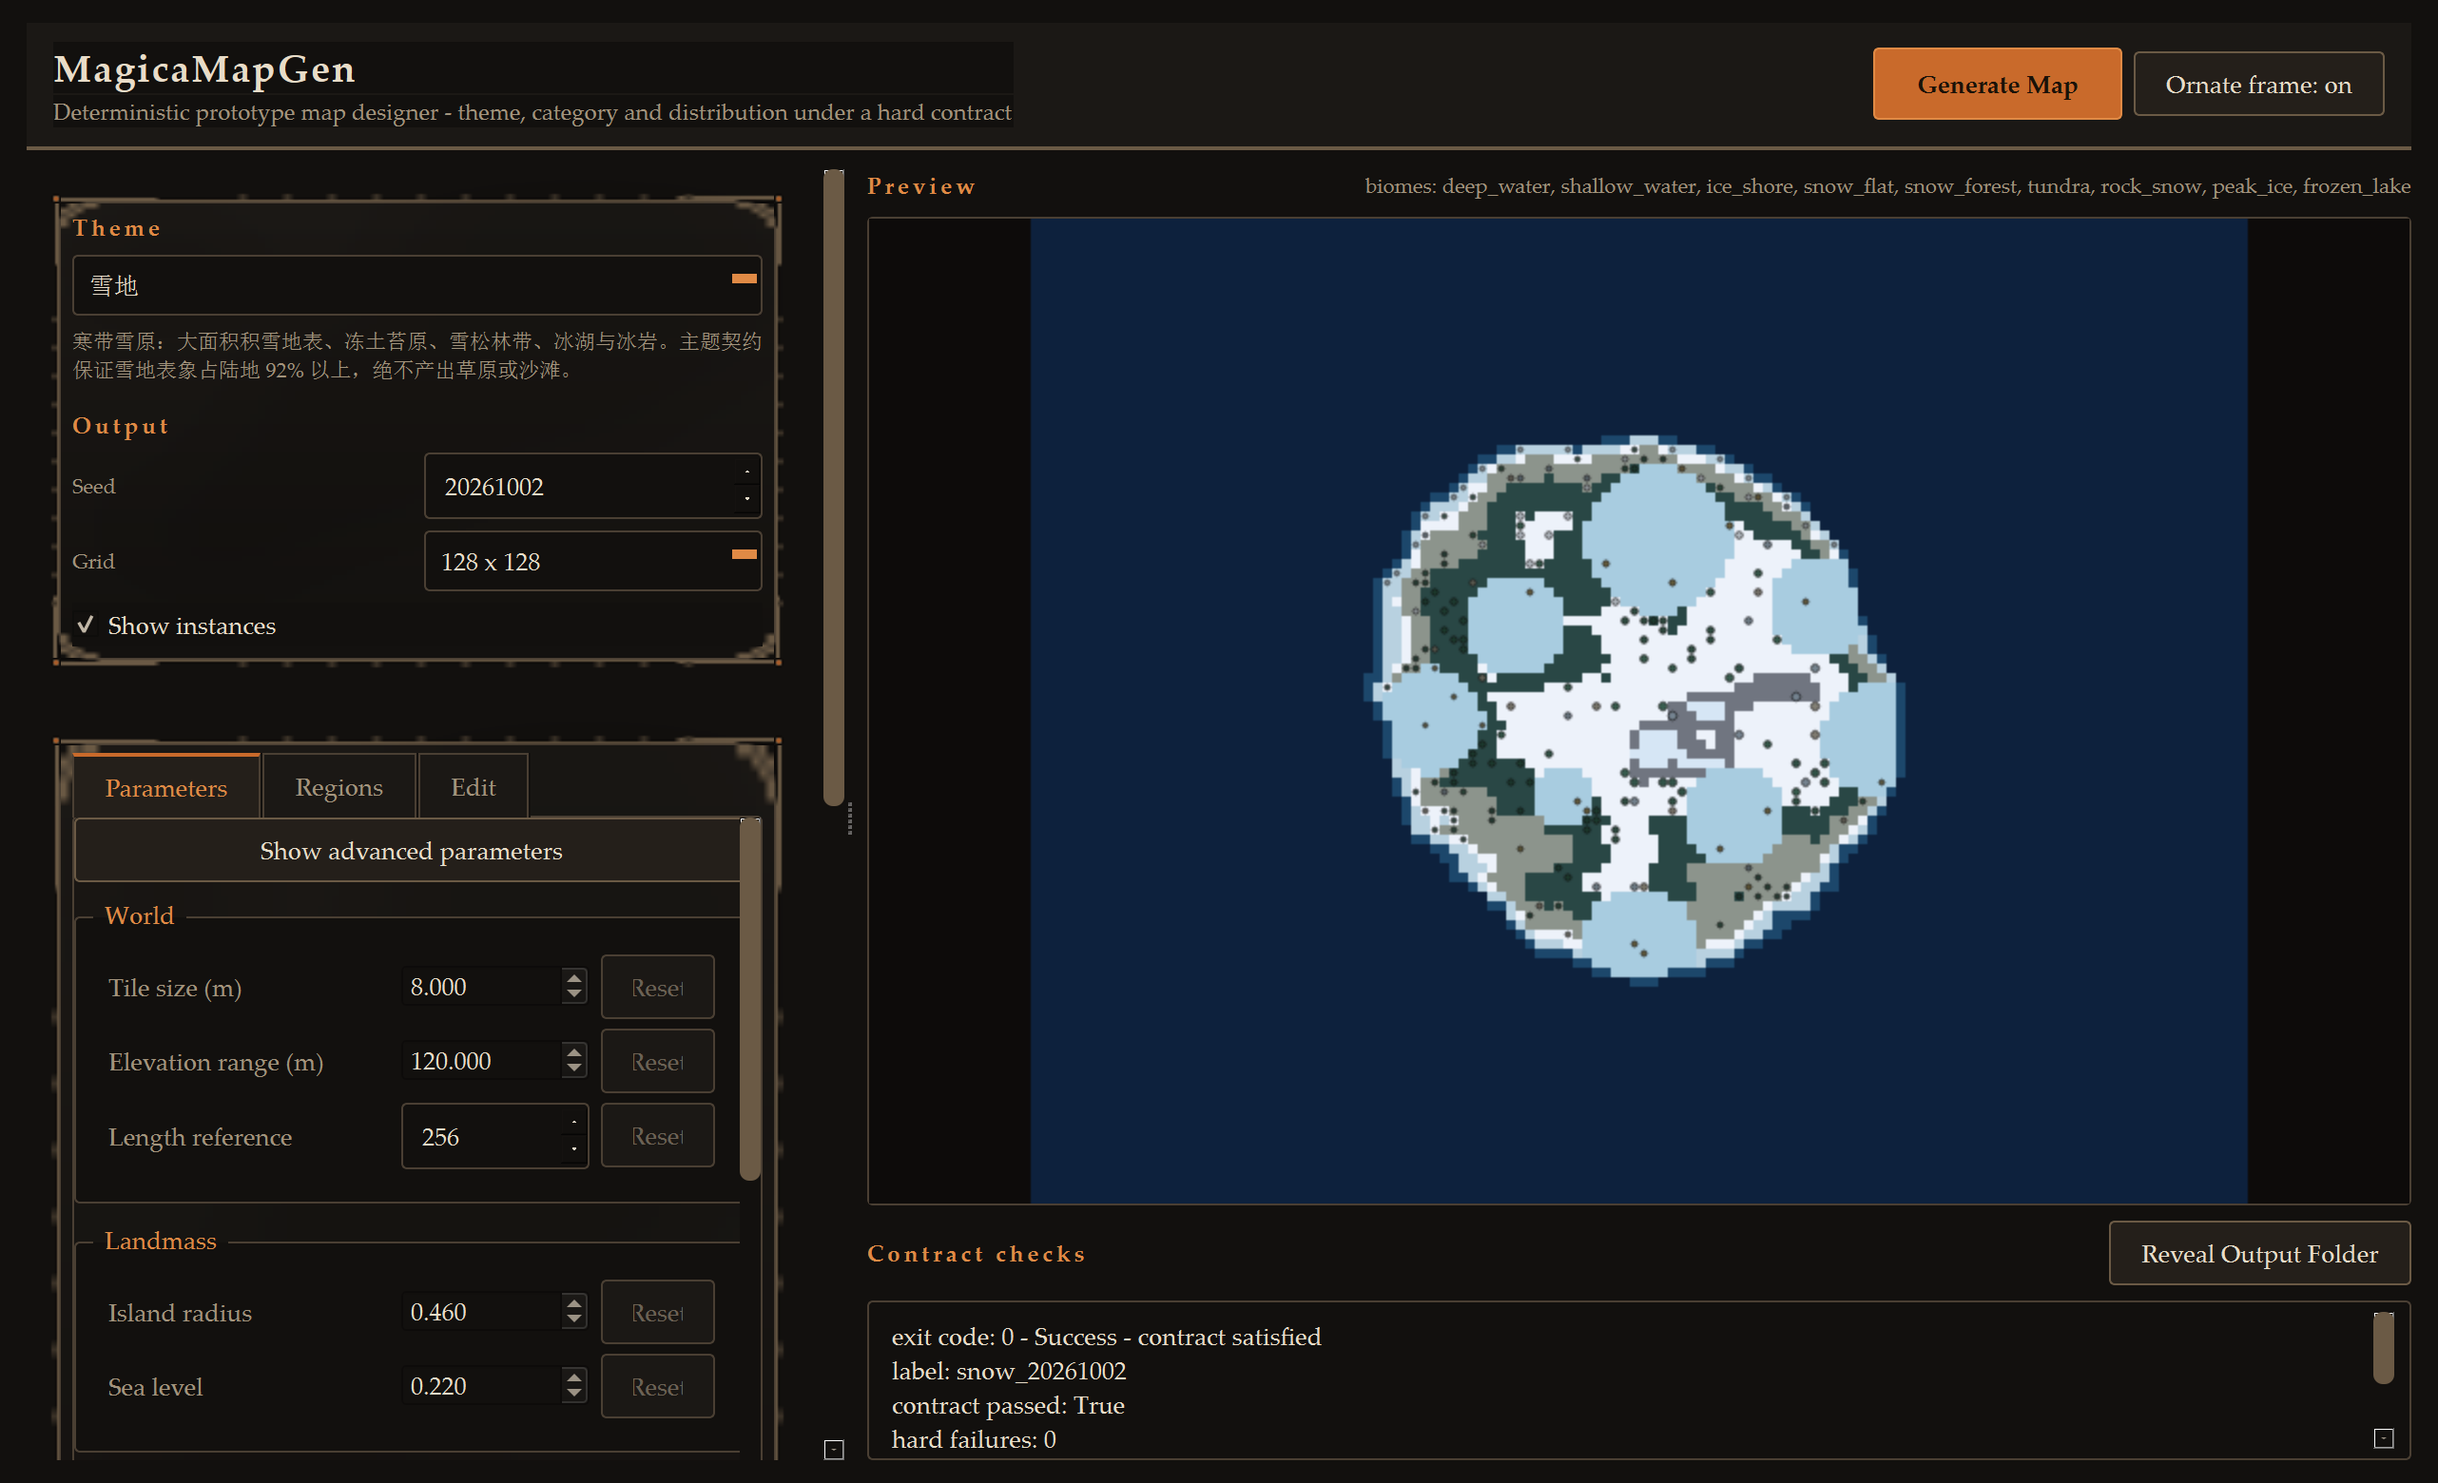
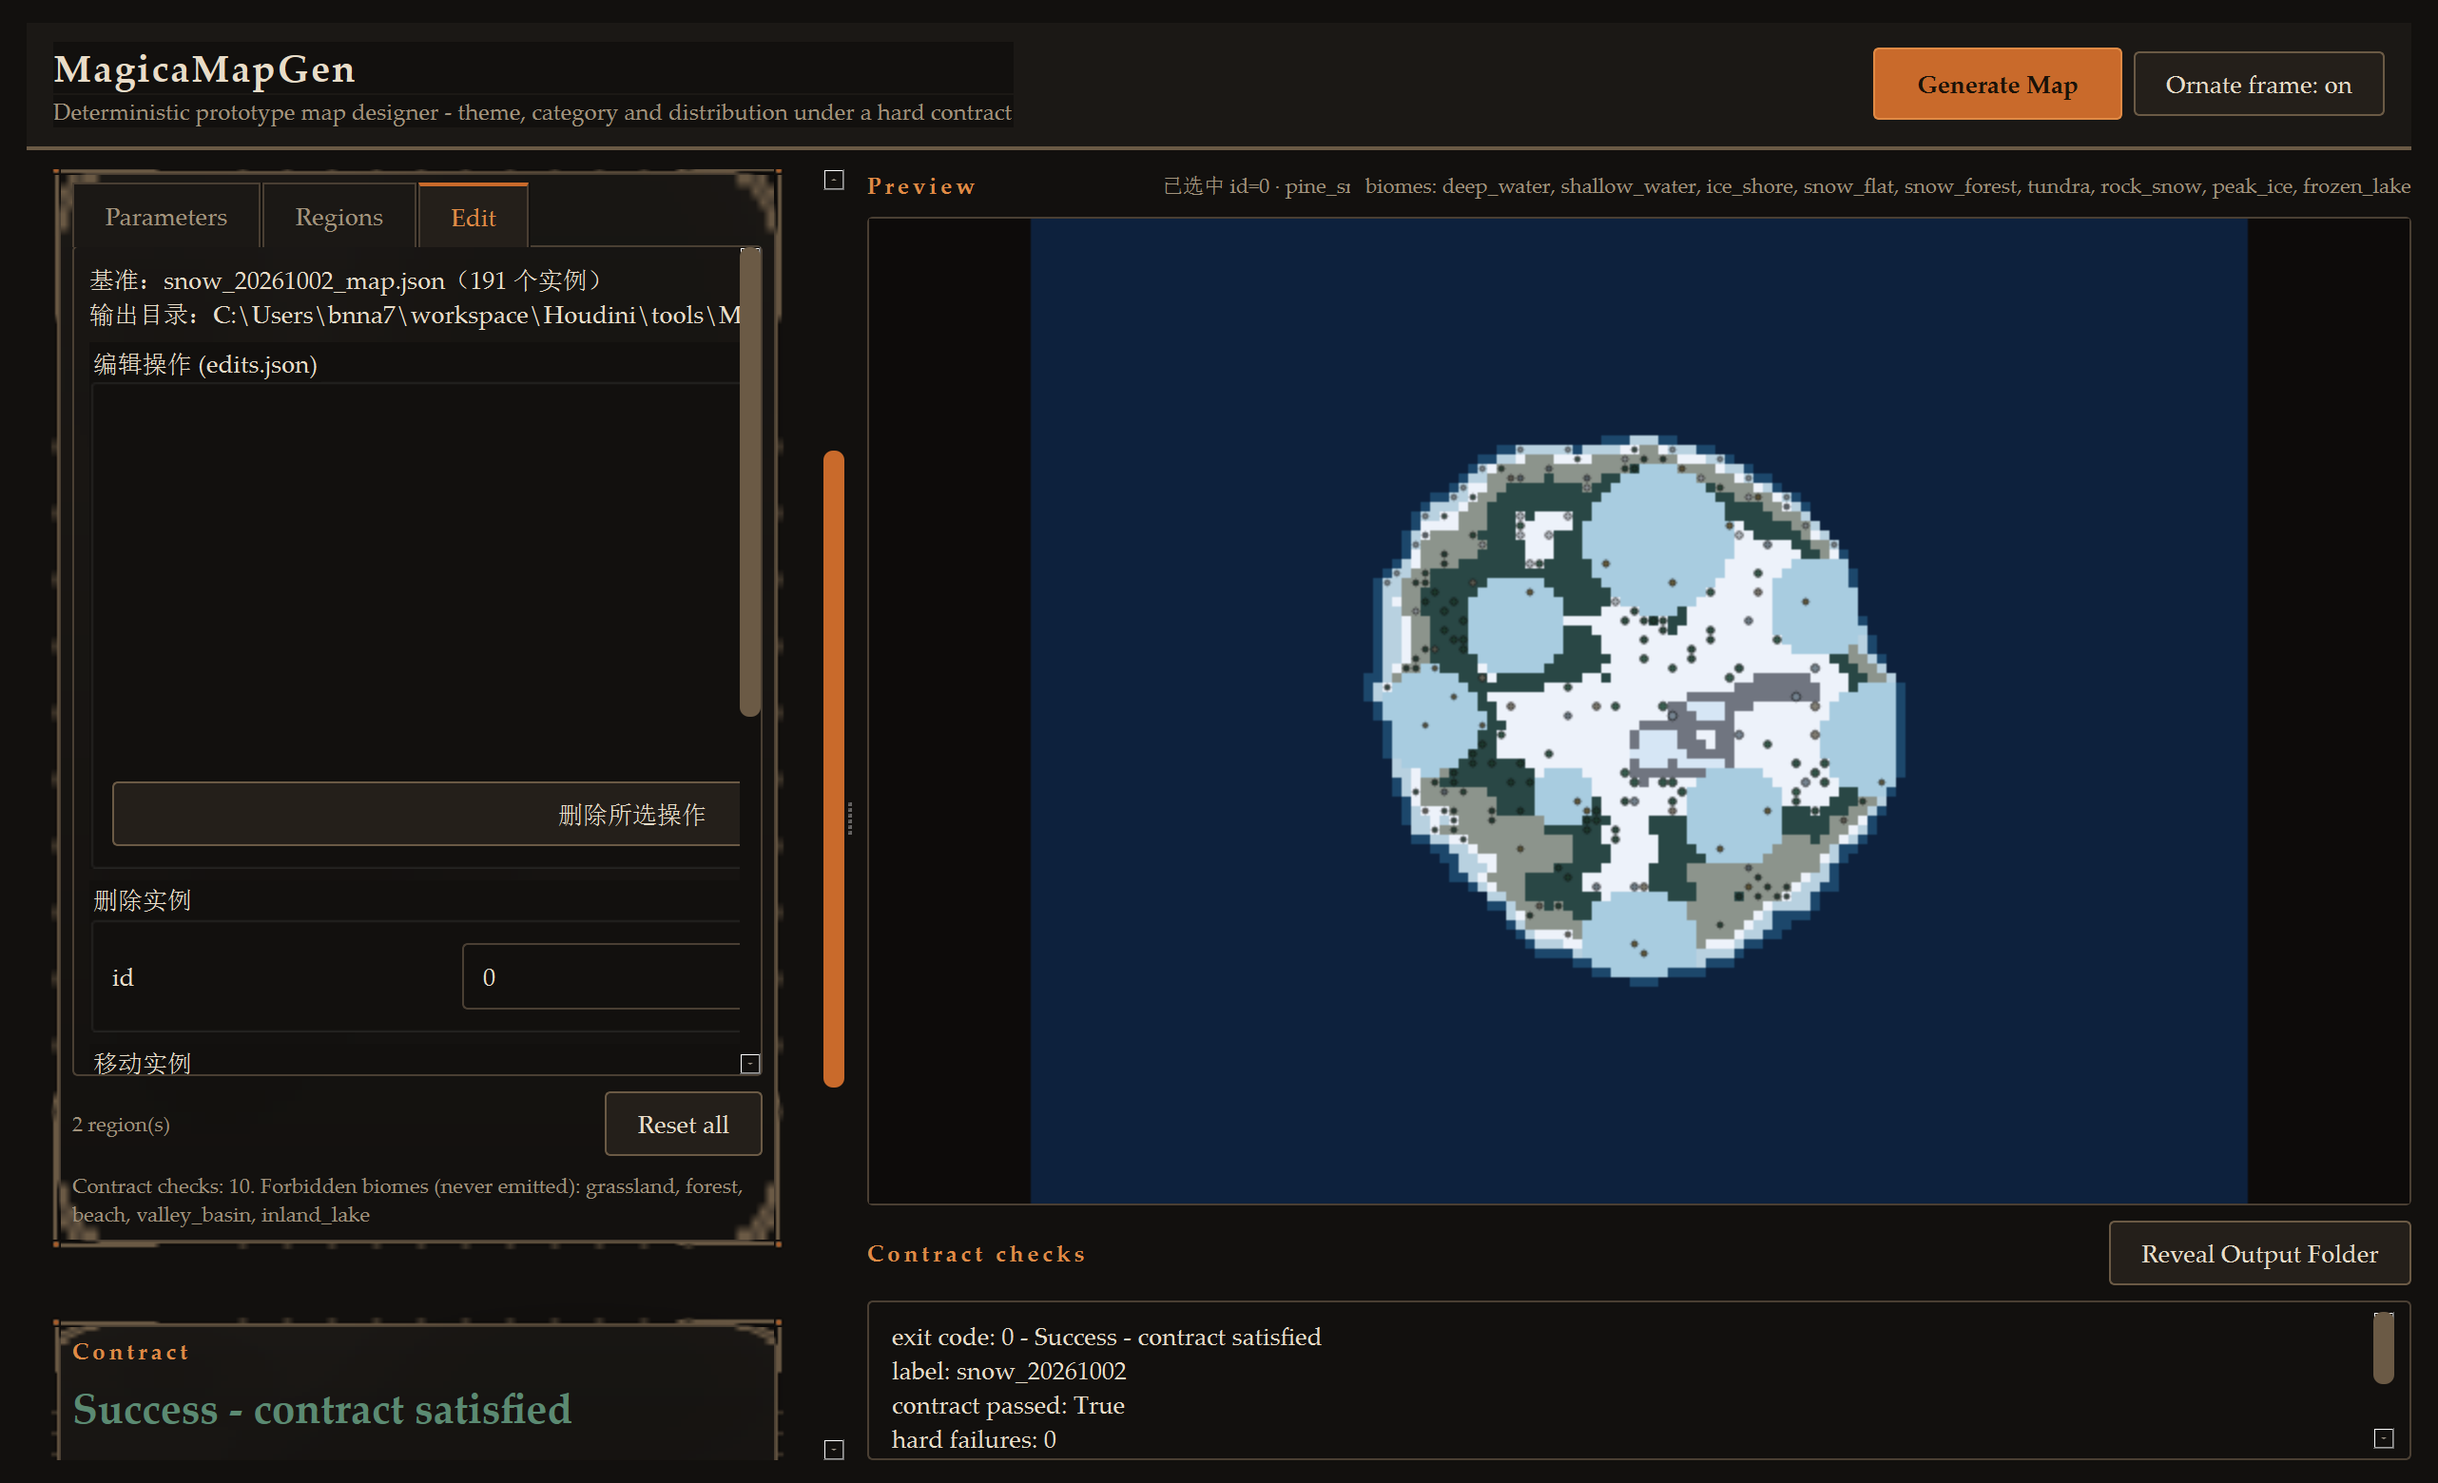
GUI: preview click-to-select auto-fills the Edit panel instance id
Hit-test the preview against instance markers and fill del/move id +
target cell, so editing no longer requires typing an integer by hand.
Render and picking share one _projection, so a click maps exactly to the
drawn pixel. Verified end-to-end through a real QMouseEvent via
smoke_gui.py (RESULT: PASS). Baseline doc records the re-runnable
acceptance command.

diff --git a/tools/MagicaMapGen/app/main_window.py b/tools/MagicaMapGen/app/main_window.py
@@ -12,7 +12,7 @@ import sys
 from pathlib import Path
 from typing import Optional
 
-from PyQt6.QtCore import Qt, QTimer
+from PyQt6.QtCore import Qt, QTimer, QEvent
 from PyQt6.QtGui import QImage, QPixmap
 from PyQt6.QtWidgets import (
     QApplication, QCheckBox, QComboBox, QFrame, QGridLayout, QGroupBox, QHBoxLayout,
@@ -24,7 +24,7 @@ from . import theme
 from .bridge import EXIT_MEANING, EXIT_OK, MapgenBridge, MapSummary
 from .edits_panel import EditsPanel
 from .param_form import ParamForm
-from .preview import render_map
+from .preview import pick_instance, render_map
 from .region_editor import RegionEditor
 from .skin import SkinnedFrame, SkinManager
 
@@ -218,7 +218,8 @@ class MainWindow(QMainWindow):
         self.region_host = QWidget()
         tabs.addTab(self._wrap_scroll(self.region_host), "Regions")
         self.edits_panel = EditsPanel(self.bridge)
-        tabs.addTab(self._wrap_scroll(self.edits_panel), "Edit")
+        self._edit_tab_index = tabs.addTab(self._wrap_scroll(self.edits_panel), "Edit")
+        self.tabs = tabs
         outer.addWidget(tabs)
 
         row = QHBoxLayout()
@@ -302,6 +303,8 @@ class MainWindow(QMainWindow):
         head = QHBoxLayout()
         head.addWidget(_label("Preview", "SectionLabel"))
         head.addStretch(1)
+        self.lbl_pick = _label("点击预览可点选实例", "Hint")
+        head.addWidget(self.lbl_pick)
         self.lbl_legend = _label("", "Hint")
         head.addWidget(self.lbl_legend)
         lay.addLayout(head)
@@ -312,6 +315,9 @@ class MainWindow(QMainWindow):
         self.lbl_preview.setSizePolicy(QSizePolicy.Policy.Expanding, QSizePolicy.Policy.Expanding)
         self.lbl_preview.setStyleSheet(
             f"background:#0d0b0a; border:1px solid {theme.BORDER}; border-radius:3px;")
+        self.lbl_preview.setCursor(Qt.CursorShape.PointingHandCursor)
+        self.lbl_preview.setToolTip("点击地图上的实例标记，自动把它的 id 与格坐标回填到 Edit 面板")
+        self.lbl_preview.installEventFilter(self)
         lay.addWidget(self.lbl_preview, 1)
 
         row = QHBoxLayout()
@@ -464,6 +470,7 @@ class MainWindow(QMainWindow):
 
         keys = [e.get("key") for e in s.legend if e.get("key")]
         self.lbl_legend.setText("biomes: " + ", ".join(keys))
+        self.lbl_pick.setText("点击预览可点选实例")
         self._refresh_preview()
 
     def _refresh_preview(self) -> None:
@@ -476,6 +483,43 @@ class MainWindow(QMainWindow):
             return
         self.lbl_preview.setPixmap(QPixmap.fromImage(img))
         self.lbl_preview.setText("")
+
+    # ---- preview click-to-select (P0-2) ----------------------------------
+
+    def eventFilter(self, obj, event):
+        if (obj is self.lbl_preview
+                and event.type() == QEvent.Type.MouseButtonPress
+                and event.button() == Qt.MouseButton.LeftButton):
+            self._on_preview_click(event.position().toPoint())
+            return True
+        return super().eventFilter(obj, event)
+
+    def _on_preview_click(self, pt) -> None:
+        """Hit-test the click against instance markers and fill the Edit panel."""
+        if self.summary is None:
+            self.lbl_pick.setText("请先生成地图")
+            return
+        if not self.chk_instances.isChecked():
+            self.lbl_pick.setText("请先勾选 Show instances 再点选")
+            return
+        pix = self.lbl_preview.pixmap()
+        if pix is None or pix.isNull():
+            return
+        pw, ph = pix.width(), pix.height()
+        # The pixmap is centred in the label (AlignCenter); strip that offset to
+        # turn the widget-space click into image-space coordinates.
+        off_x = (self.lbl_preview.width() - pw) // 2
+        off_y = (self.lbl_preview.height() - ph) // 2
+        inst = pick_instance(self.summary, pw, ph, pt.x() - off_x, pt.y() - off_y)
+        if inst is None:
+            self.lbl_pick.setText("点选：此处无实例")
+            return
+        iid = int(inst.get("id", -1))
+        gx, gy = int(inst.get("x", 0)), int(inst.get("y", 0))
+        self.edits_panel.select_instance(iid, gx, gy)
+        self.tabs.setCurrentIndex(self._edit_tab_index)
+        self.lbl_pick.setText(
+            f"已选中 id={iid} · {inst.get('type', '')} · 格({gx},{gy}) → 回填 Edit 面板")
 
     def _fill_contract_text(self, code: int, summary) -> None:
         lines = [f"exit code: {code} - {EXIT_MEANING.get(code, 'unknown')}"]

diff --git a/tools/MagicaMapGen/app/preview.py b/tools/MagicaMapGen/app/preview.py
@@ -57,21 +57,37 @@ def decode_rle(runs: List[List[int]], total: int) -> List[int]:
     return flat[:total]
 
 
-def render_map(summary, width: int = 720, height: int = 560,
-               show_instances: bool = True, show_grid: bool = False) -> Optional[QImage]:
-    """Render a MapSummary to a QImage. Returns None if the document is unusable."""
-    grid = summary.grid
+def _projection(grid: dict, width: int, height: int) -> Optional[Tuple[int, int, int, int, int, float]]:
+    """Shared map->screen projection for rendering AND hit-testing.
+
+    Returns ``(w, h, tile, ox, oy, px_per_m)`` or None if the grid is unusable.
+    Both ``render_map`` and ``pick_instance`` go through this so a click maps to
+    exactly the pixel an instance was drawn at -- keeping the two in lockstep is
+    the whole reason this helper exists.
+    """
     w = int(grid.get("width", 0) or 0)
     h = int(grid.get("height", 0) or 0)
     if w < 1 or h < 1:
         return None
-
-    img = QImage(width, height, QImage.Format.Format_ARGB32)
-    img.fill(_hex_to_qcolor("#0d0b0a"))
-
     tile = max(1, int(min(width / w, height / h)))
     ox = (width - tile * w) // 2
     oy = (height - tile * h) // 2
+    cell_m = float(grid.get("tile_size_meters", 8.0) or 8.0)
+    px_per_m = tile / cell_m
+    return w, h, tile, ox, oy, px_per_m
+
+
+def render_map(summary, width: int = 720, height: int = 560,
+               show_instances: bool = True, show_grid: bool = False) -> Optional[QImage]:
+    """Render a MapSummary to a QImage. Returns None if the document is unusable."""
+    grid = summary.grid
+    proj = _projection(grid, width, height)
+    if proj is None:
+        return None
+    w, h, tile, ox, oy, px_per_m = proj
+
+    img = QImage(width, height, QImage.Format.Format_ARGB32)
+    img.fill(_hex_to_qcolor("#0d0b0a"))
 
     painter = QPainter(img)
     painter.setRenderHint(QPainter.RenderHint.Antialiasing, False)
@@ -103,8 +119,6 @@ def render_map(summary, width: int = 720, height: int = 560,
         painter.setPen(Qt.PenStyle.NoPen)
 
     if show_instances:
-        cell_m = float(grid.get("tile_size_meters", 8.0) or 8.0)
-        px_per_m = tile / cell_m
         painter.setRenderHint(QPainter.RenderHint.Antialiasing, True)
         for inst in summary.instances or []:
             world = inst.get("world") or [0, 0, 0]
@@ -130,3 +144,34 @@ def render_map(summary, width: int = 720, height: int = 560,
 
     painter.end()
     return img
+
+
+def pick_instance(summary, width: int, height: int, ix: int, iy: int,
+                  min_radius: float = 7.0) -> Optional[dict]:
+    """Hit-test: return the instance whose marker is nearest to image point (ix, iy).
+
+    Uses the same ``_projection`` as ``render_map``, so the marker centre computed
+    here is pixel-identical to where it was drawn. The pick radius is at least
+    ``min_radius`` px (or half a tile for coarse zooms) so small markers are still
+    comfortably clickable. Returns None when nothing is within reach.
+    """
+    proj = _projection(summary.grid, width, height)
+    if proj is None:
+        return None
+    _w, _h, tile, ox, oy, px_per_m = proj
+    pick_r = max(min_radius, tile * 0.5)
+    pick_r2 = pick_r * pick_r
+
+    best: Optional[dict] = None
+    best_d2 = pick_r2
+    for inst in summary.instances or []:
+        world = inst.get("world") or [0, 0, 0]
+        if len(world) < 3:
+            continue
+        sx = ox + float(world[0]) * px_per_m
+        sy = oy + float(world[2]) * px_per_m
+        d2 = (sx - ix) * (sx - ix) + (sy - iy) * (sy - iy)
+        if d2 <= best_d2:
+            best_d2 = d2
+            best = inst
+    return best

diff --git a/tools/MagicaMapGen/tools/smoke_gui.py b/tools/MagicaMapGen/tools/smoke_gui.py
@@ -223,6 +223,47 @@ def main() -> int:
             if win.lbl_preview.pixmap().isNull():
                 failures.append("preview pixmap not set")
 
+            # --- click-to-select (P0-2): preview hit-test -> Edit panel id ---
+            from PyQt6.QtCore import QEvent, QPointF, Qt
+            from app.preview import _projection, pick_instance
+            inst0 = (s.instances or [None])[0]
+            if inst0 is None:
+                failures.append("no instances to click-select")
+            else:
+                _w, _h, _tile, ox, oy, px_per_m = _projection(s.grid, 900, 700)
+                wpos = inst0["world"]
+                sx = int(round(ox + float(wpos[0]) * px_per_m))
+                sy = int(round(oy + float(wpos[2]) * px_per_m))
+                picked = pick_instance(s, 900, 700, sx, sy)
+                if picked is None or picked.get("id") != inst0.get("id"):
+                    failures.append("pick_instance missed: got %r want id=%r"
+                                    % (picked and picked.get("id"), inst0.get("id")))
+                else:
+                    print("pick_instance OK: id=%s at screen (%d,%d)"
+                          % (picked.get("id"), sx, sy))
+                # End-to-end through a REAL mouse event so the eventFilter path
+                # (event.position().toPoint()) is covered, not just the handler.
+                from PyQt6.QtGui import QMouseEvent
+                pix = win.lbl_preview.pixmap()
+                off_x = (win.lbl_preview.width() - pix.width()) // 2
+                off_y = (win.lbl_preview.height() - pix.height()) // 2
+                local = QPointF(float(sx + off_x), float(sy + off_y))
+                ev = QMouseEvent(QEvent.Type.MouseButtonPress, local,
+                                 Qt.MouseButton.LeftButton, Qt.MouseButton.LeftButton,
+                                 Qt.KeyboardModifier.NoModifier)
+                QApplication.sendEvent(win.lbl_preview, ev)
+                want_id = int(inst0.get("id", -1))
+                if win.edits_panel.del_id.value() != want_id:
+                    failures.append("click did not fill del_id (got %d want %d)"
+                                    % (win.edits_panel.del_id.value(), want_id))
+                if win.edits_panel.move_id.value() != want_id:
+                    failures.append("click did not fill move_id")
+                if win.edits_panel.move_x.value() != int(inst0.get("x", -1)):
+                    failures.append("click did not fill move_x from the instance cell")
+                if not failures:
+                    print("click-to-select filled Edit panel: id=%d cell=(%s,%s)"
+                          % (want_id, inst0.get("x"), inst0.get("y")))
+
     SHOT.parent.mkdir(parents=True, exist_ok=True)
     win.grab().save(str(SHOT))
     print("screenshot:", SHOT, "exists:", SHOT.exists())

diff --git a/tools/MagicaMapGen/app/edits_panel.py b/tools/MagicaMapGen/app/edits_panel.py
@@ -208,6 +208,19 @@ class EditsPanel(QWidget):
         self.edit_ops.clear()
         self.op_list.clear()
 
+    def select_instance(self, inst_id: int, x: int, y: int) -> None:
+        """Auto-fill the id (and grid position) fields from a preview click.
+
+        Sets both the delete and move id spinners plus the move target cell, so a
+        designer clicks a marker instead of hunting for its integer id. Clamps to
+        each spinner's range so an out-of-range value can't raise.
+        """
+        iid = int(inst_id)
+        self.del_id.setValue(min(max(iid, self.del_id.minimum()), self.del_id.maximum()))
+        self.move_id.setValue(min(max(iid, self.move_id.minimum()), self.move_id.maximum()))
+        self.move_x.setValue(min(max(int(x), self.move_x.minimum()), self.move_x.maximum()))
+        self.move_y.setValue(min(max(int(y), self.move_y.minimum()), self.move_y.maximum()))
+
     def _refresh_list(self) -> None:
         self.op_list.clear()
         for op in self.edit_ops:
